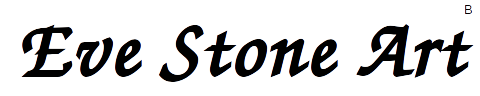
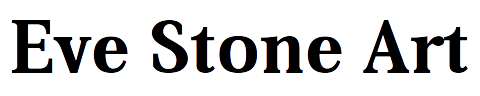
evestoneart.com-v.0.5.0_01-08-2015

Changed region(s): [[0.0, 0.1875, 1.0, 0.875], [0.9688, 0.0312, 1.0, 0.1562]]

diff --git a/www/index.html b/www/index.html
@@ -84,7 +84,7 @@
               </div>
               <div class="modal-footer">
                 <h4 class="modal-title text-center" id="{{name}}Label">{{caption}}</h4>
-                <p class="text-left small">Copyright <span class="glyphicon glyphicon-copyright-mark" aria-hidden="true"></span> by Eve Stone Art 2014. All Rights Reserved.</p>
+                <p class="text-left small">Copyright <span class="glyphicon glyphicon-copyright-mark" aria-hidden="true"></span> by Eve Stone 2014. All Rights Reserved.</p>
               </div>
             </div>
           </div>
@@ -111,7 +111,7 @@
 			<div class="col-sm-6">
 				<img src="images/banner_xs.jpg" class="img-responsive"
 					alt="Eve Stone">
-				<p>The artist in her home</p>
+				<p>The Artist Eve Stone in her home surrounded by her art.</p>
 			</div>
 
       <!-- Thank You Section -->
@@ -123,7 +123,7 @@
         </p>
         <div class="row">
           <div class="col-sm-12">
-            Erica Gangeau
+            Erika Gangeau
           </div>
           <div class="col-sm-12">
             Iris Voloshyna
@@ -173,9 +173,11 @@
            <div class="col-xs-2 col-sm-12">
              <a href="https://plus.google.com/u/0/108865119981871108032/"><i class="fa fa-google-plus-square fa-2x"></i></a>
            </div>
+           <!--  
            <div class="col-xs-2 col-sm-12">
              <a href="https://www.facebook.com/eve.stone.16"><i class="fa fa-facebook-square fa-2x"></i></a>
            </div>
+           -->
            <div class="col-xs-2 col-sm-12">
              <a href="mailto:evestoneart@gmail.com?Subject=Art%20Inquiry" target="_top"><i class="fa fa-envelope-square fa-2x"></i></a>
            </div>
@@ -210,7 +212,7 @@
     <div class="row">
       <div class="col-lg-12">
         <div class="page-footer">
-          <small>Copyright <span class="glyphicon glyphicon-copyright-mark" aria-hidden="true"></span> by Eve Stone Art 2014. All Rights Reserved.</small>
+          <small>Copyright <span class="glyphicon glyphicon-copyright-mark" aria-hidden="true"></span> by Eve Stone 2014. All Rights Reserved.</small>
         </div>
       </div>
     </div>

diff --git a/www/js/index.js b/www/js/index.js
@@ -93,14 +93,14 @@ var app = {
 					img : "images/egyptian/main.jpg",
 					title : "Egyptian Girl",
 					medium : 'Charcoal on paper. 24"x36"',
-					soldTo : "sold to Reshaunna and Mini Davidson",
+					soldTo : "sold to Iris Voloshyna",
 				    clearfix : "clearfix visible-xs"
 				}, {
 					name: "german",
 					img : "images/german/main.jpg",
 					title : "German Girl",
 					medium : 'Charcoal on paper. 24"x36"',
-					soldTo : "sold to Iris Voloshyna"
+					soldTo : "sold to Reshaunna and Mini Davidson"
 				}, {
 					name: "sister2",
 					img : "images/sister2/main.jpg",

diff --git a/README.md b/README.md
@@ -7,6 +7,28 @@
 
 ######################################################################################################
 
+# Sprint 4: New Font for Name in Banner
+
+- Version: 0.5.0.00
+- Start Date: 01/08/2015
+- Target Date: 01/08/2015
+- Actual Date: 01/08/2015
+
+## Product Features:
+- Adding a using a image for the name of Eve Stone Art using Aver Bold font
+
+## User Stories Sprint Backlog
+
+## Completed User Stories
+- Build tag: evestoneart.com-v.0.5.0_01-08-2015
+- Adding a using a image for the name of Eve Stone Art using Aver Bold font
+- Fix spelling of Erika Gangeau
+- Hiding the facebook link
+- Removing 'Art' from Copyright notice.
+- Corrected: German girl, sold to Reshaunna and Mini Davidson
+- Corrected: Egyptian Girl, sold to Iris Voloshyna
+- Changed the caption of Eve's photo to: The Artist Eve Stone in her home surrounded by her art.
+
 # Sprint 3: Adding Google Analytics
 
 - Version: 0.4.0.00
